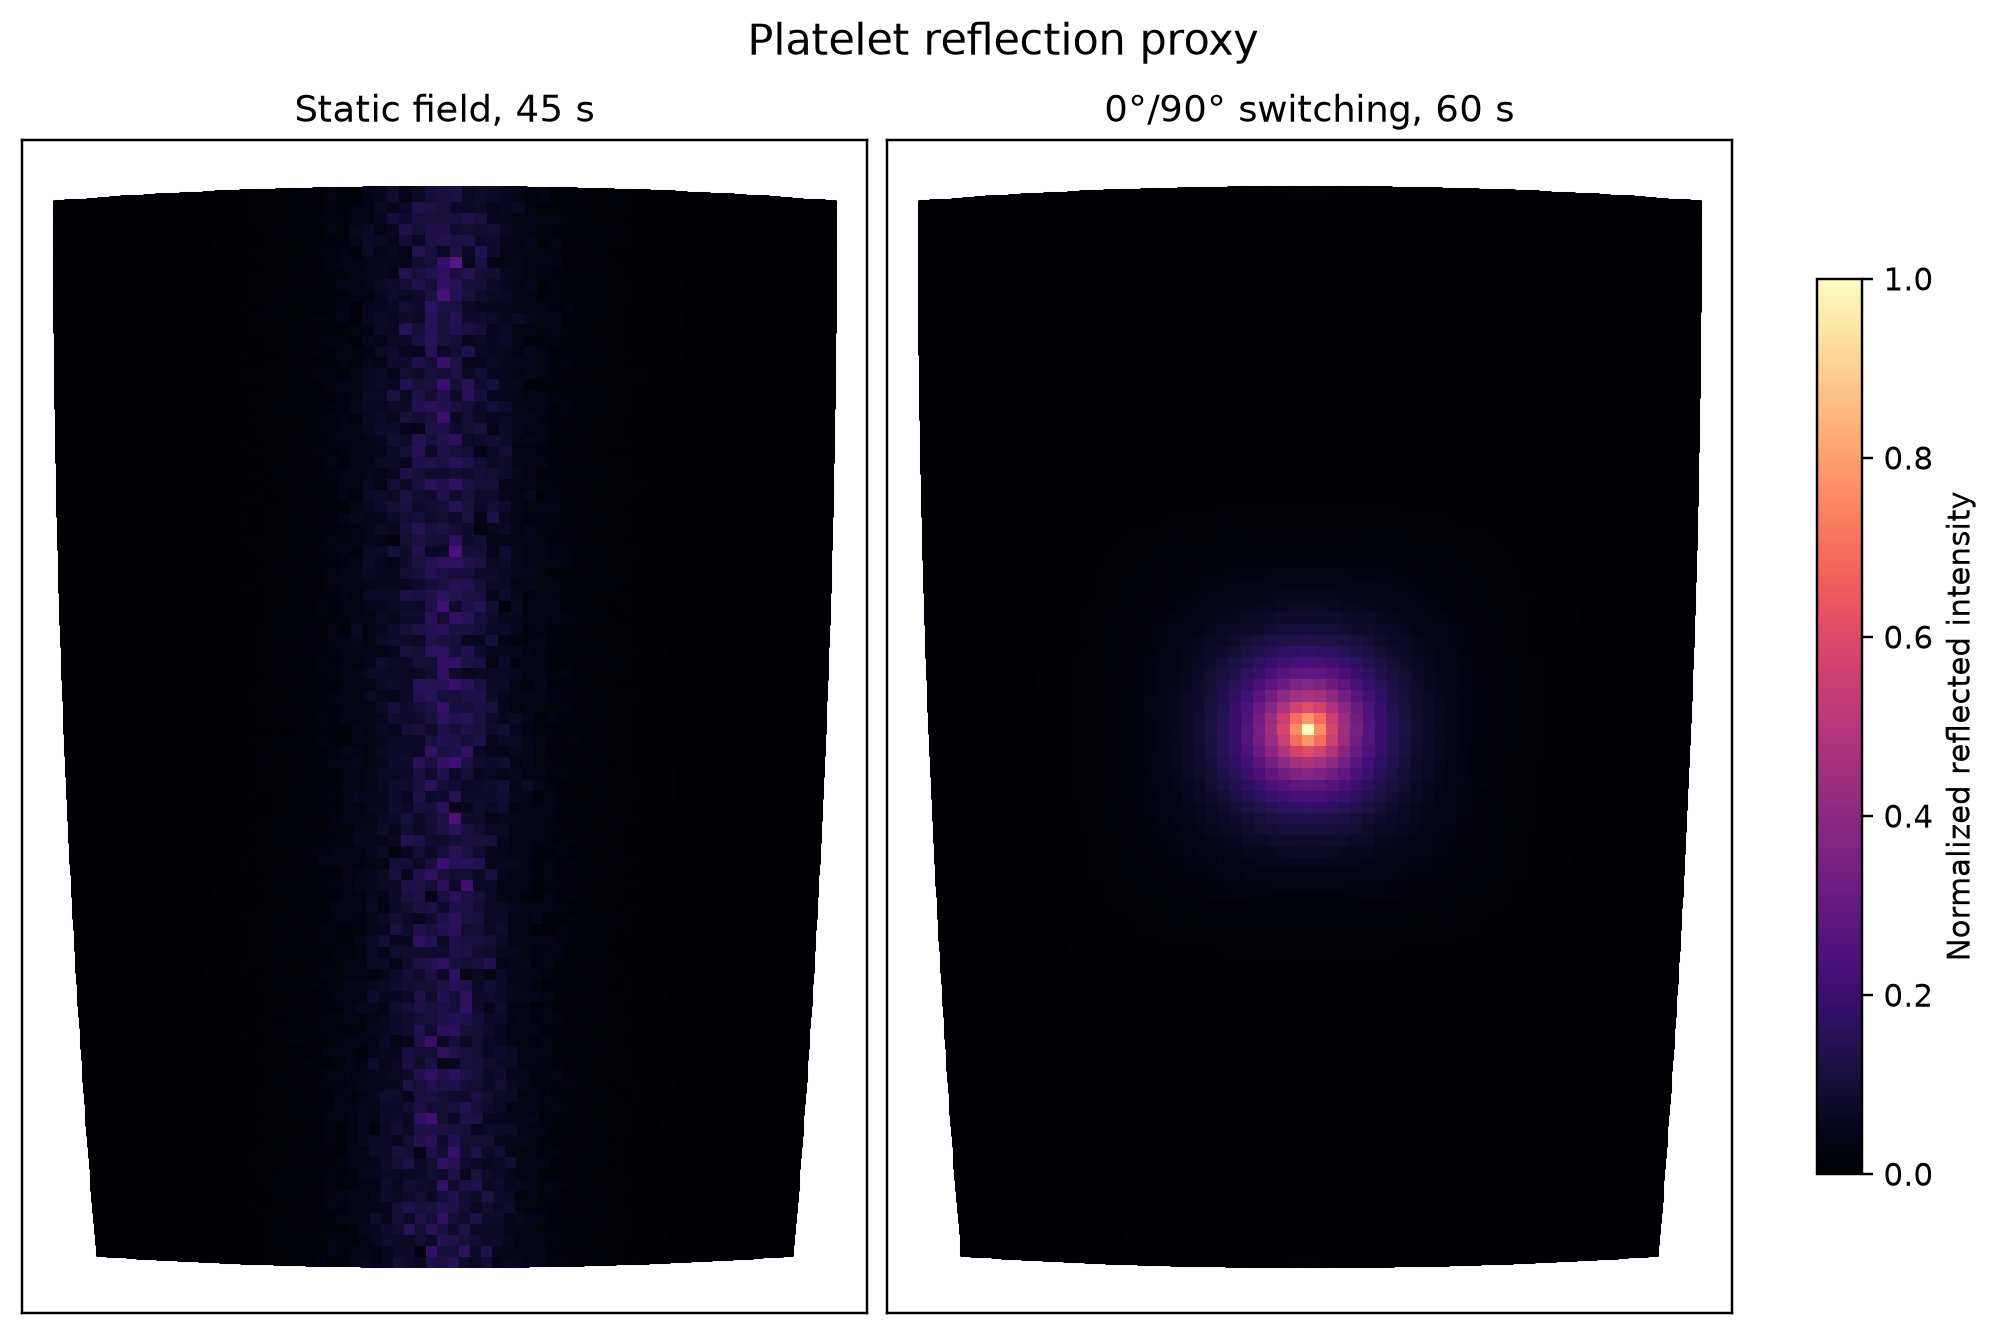
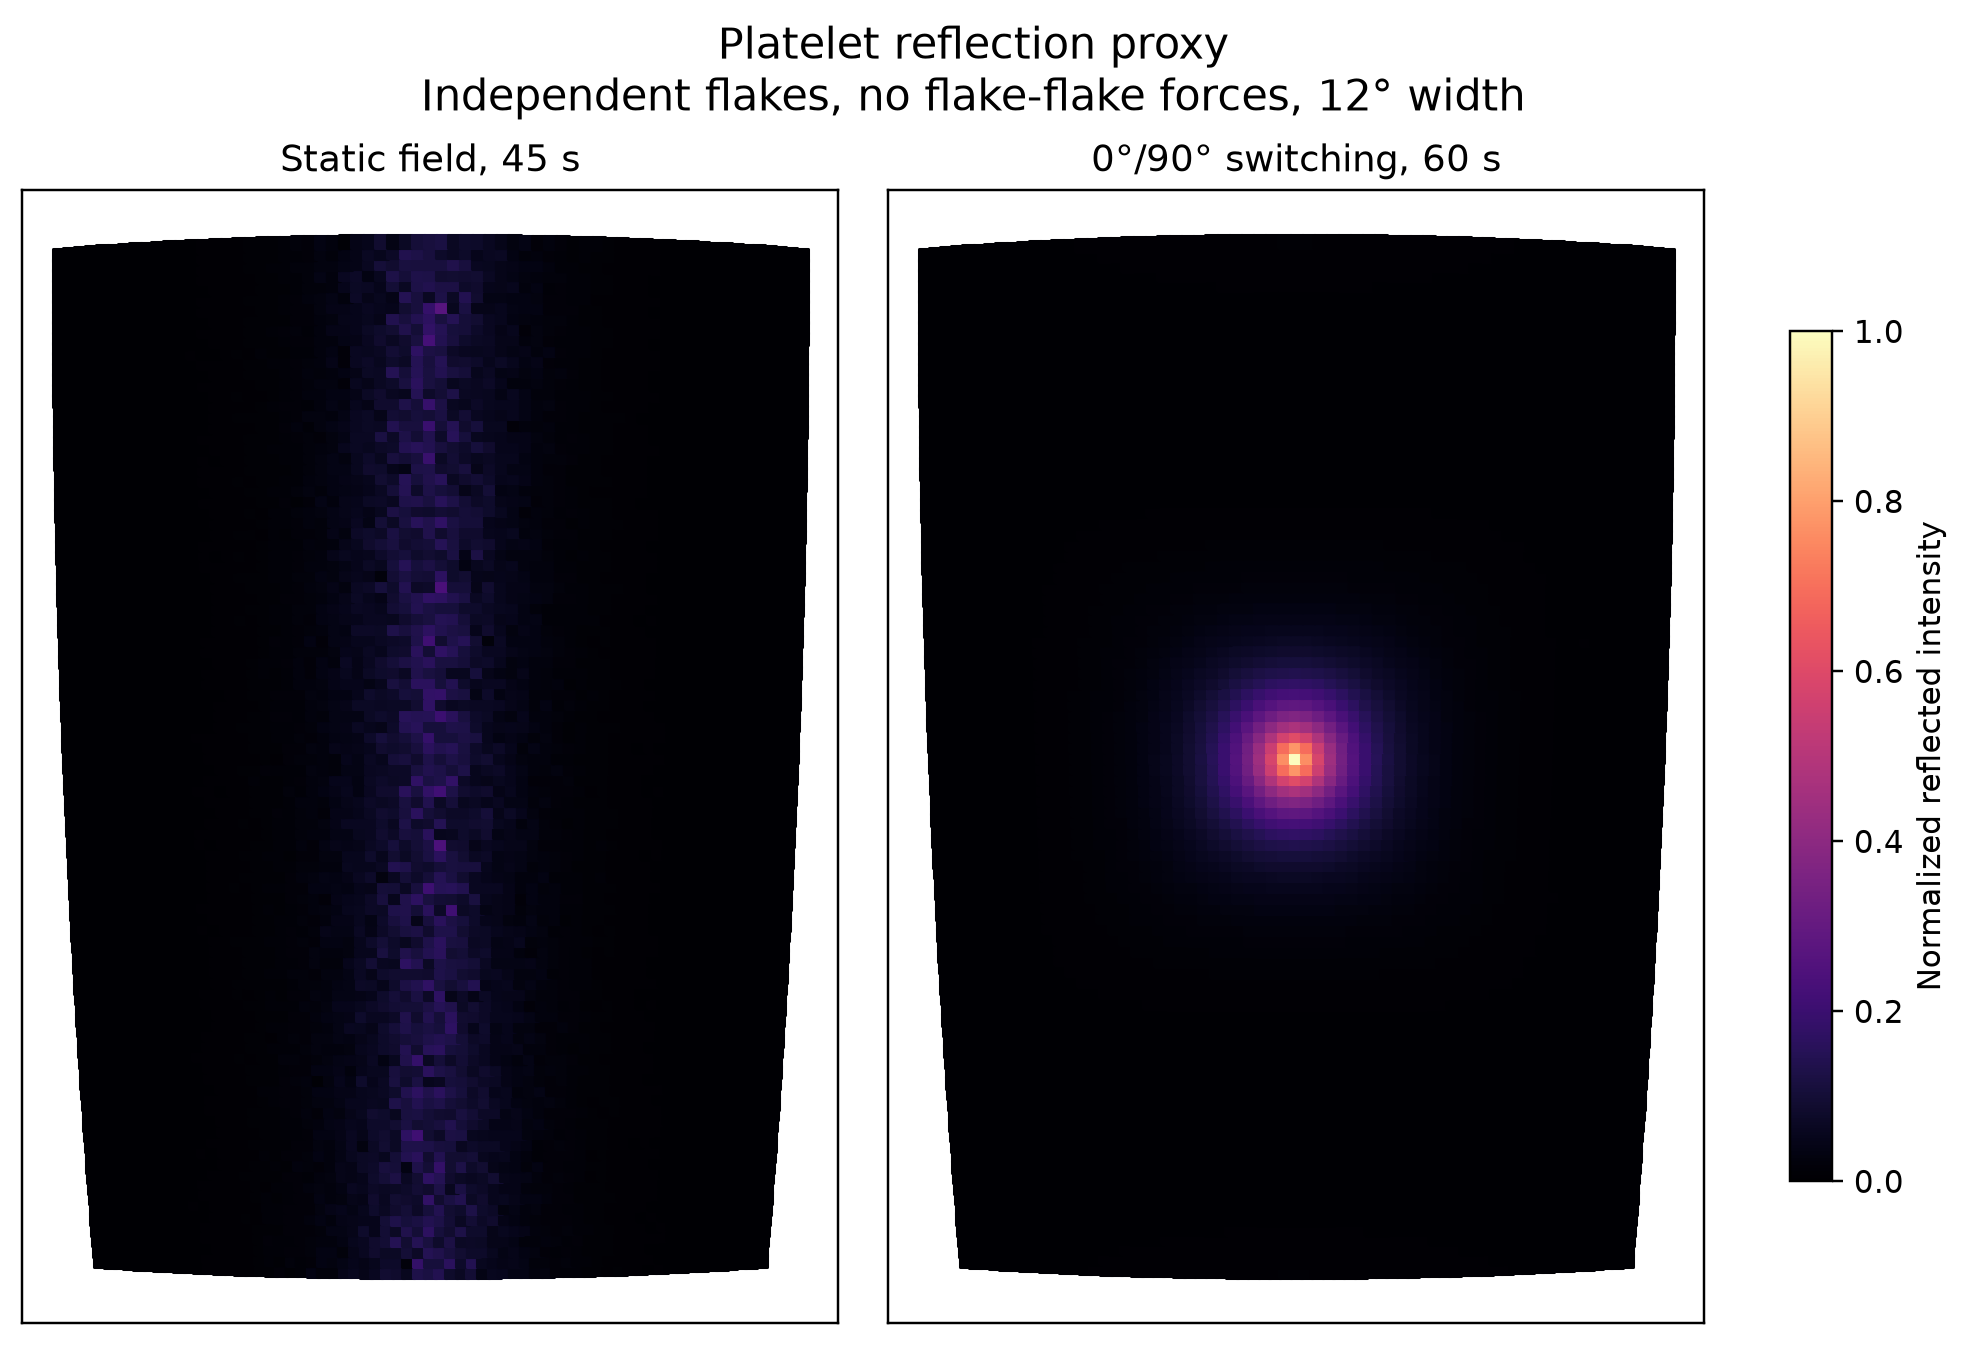
Use relative paths and clarify visualization assumptions

diff --git a/visualization/render_brdf.py b/visualization/render_brdf.py
@@ -239,7 +239,7 @@ def main():
     )
 
     fig.suptitle(
-        "Platelet reflection proxy",
+        f"Platelet reflection proxy\nIndependent flakes, no flake-flake forces, {args.width_deg:g}° width",
         fontsize=14,
     )
 

diff --git a/README.md b/README.md
@@ -291,14 +291,16 @@ Chains over longer holds. Tied model, chi_in 1, brushed start, 2000 flakes, 12a 
 The 3% static and switching states used for the final visualisations were regenerated from commit `1e9b6d8` on USC Discovery. Both runs used seed `1`, `OMP_NUM_THREADS=8`, 2000 flakes, a 12a film, `chi_in=1`, a 10 deg brushed start, and a 4a force cutoff. These regenerated values are the canonical values used in the tables, figures, and slides.
 
 ```bash
-cd /home1/halwasia/csci596-magnetic-polish
+# Run from the repository root
+RUNS="../csci596-magnetic-polish-runs/reproduction"
+mkdir -p "$RUNS"
 module purge
 module load ver/2607
 module load gcc/15.3.0
 export OMP_NUM_THREADS=8
-gcc -O2 -fopenmp -Wall -DTIE_DCHI c/soft.c -o /home1/halwasia/csci596-magnetic-polish-runs/shreeya/soft_tied -lm
-/home1/halwasia/csci596-magnetic-polish-runs/shreeya/soft_tied c/field_center.txt 0.03 2000 free 1 12 1 45 10 /home1/halwasia/csci596-magnetic-polish-runs/shreeya/static_3pct_45s.csv 4
-/home1/halwasia/csci596-magnetic-polish-runs/shreeya/soft_tied c/field_center.txt 0.03 2000 free 1 12 1 0 10 /home1/halwasia/csci596-magnetic-polish-runs/shreeya/switching_3pct_60s.csv 4
+gcc -O2 -fopenmp -Wall -DTIE_DCHI c/soft.c -o $RUNS/soft_tied -lm
+$RUNS/soft_tied c/field_center.txt 0.03 2000 free 1 12 1 45 10 $RUNS/static_3pct_45s.csv 4
+$RUNS/soft_tied c/field_center.txt 0.03 2000 free 1 12 1 0 10 $RUNS/switching_3pct_60s.csv 4
 ```
 
 For switching, chain statistics are evaluated separately along B0 and B90. `c/chains_field.py` uses the same 2.2a distance and 37 deg angular criteria as `chains.py`, but allows the field direction to be selected instead of assuming B0.
@@ -314,6 +316,8 @@ For switching, chain statistics are evaluated separately along B0 and B90. `c/ch
 | 10%, no forces 5 s | 0.988 | 0.00 | 1.27 | (percolates by contact) | |
 | 10%, 5 s | 0.966 | 1.96 | 1.80 | | |
 | 10%, 45 s | 0.864 | 2.14 | 2.27 | | |
+
+Only the 3%, 45 s row with forces was regenerated for the final visualisations; the other rows are from earlier runs.
 
 Reading:
 - Chains form and keep growing along the field: at 3% the mean chain grows from about 10 to 138 flakes between 5 and 45 s, and the regenerated 45 s state has a largest connected chain of 356 flakes. These are branched clusters rather than single lines and are already limited by the box size. At 10% the flakes are close enough that the count saturates; links per flake still rise.
